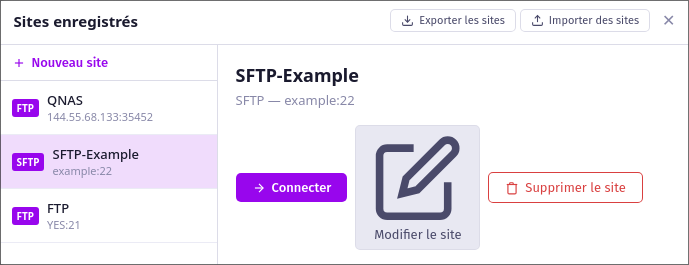
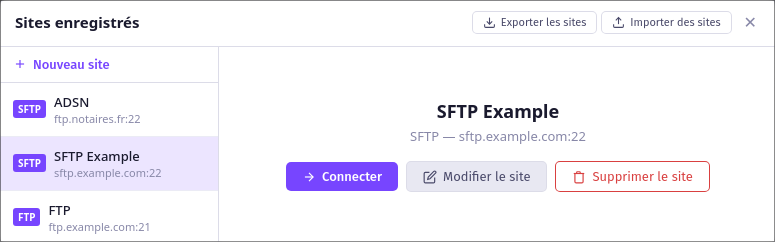
upd readme

diff --git a/README.md b/README.md
@@ -25,7 +25,7 @@
 - **Ask-password auth** - password is never saved; prompted at connect time
 - **SFTP auto-coupling** - selecting SFTP automatically sets authentication to Interactive (or SSH Key) and vice versa
 - **Path autocomplete** - dropdown suggestions while typing in the path bar
-- **Full settings panel** - passive mode, timeout, concurrent transfers, speed limit, hidden files, and more
+- **Full settings panel** - passive mode, timeout, concurrent transfers, speed limit, hidden files
 - **Encryption support** - None, TLS (implicit), FTPES (explicit)
 - **System trash on delete** - deleting a local file sends it to the OS trash (Linux: XDG Trash spec; Windows: Recycle Bin) rather than permanently deleting it
 - **Connection keepalive** - a NOOP/ping is sent every 60 seconds to prevent the server from dropping idle connections; unexpected disconnects trigger a notification and automatic UI update
@@ -38,7 +38,7 @@
 
 |SFTP|Sites|
 |----|-----------|
-| ![](./_images/sftp-fr-w.png) | ![](./_images/sites-fr-d.png) |
+| ![](./_images/sftp-en-d.png) | ![](./_images/sites-fr-d.png) |
 
 |Connected|Settings|
 |---------|--------|
@@ -243,7 +243,7 @@ Releases are available [here](https://github.com/Quirky1869/GlideFTP/releases)
 - **Auth demande de mot de passe** - le mot de passe n'est jamais enregistré ; saisi au moment de la connexion
 - **Couplage automatique SFTP** - sélectionner SFTP active automatiquement l'authentification Interactive (ou Clé SSH) et inversement
 - **Autocomplétion de chemin** - suggestions dans la barre de chemin lors de la saisie
-- **Panneau de paramètres complet** - mode passif, délai de connexion, transferts simultanés, limite de vitesse, fichiers cachés, et plus encore
+- **Panneau de paramètres complet** - mode passif, délai de connexion, transferts simultanés, limite de vitesse, fichiers cachés
 - **Support du chiffrement** - Aucun, TLS (implicite), FTPES (explicite)
 - **Corbeille système à la suppression** - la suppression d'un fichier local l'envoie dans la corbeille de l'OS (Linux : spec XDG Trash ; Windows : Corbeille) plutôt que de le supprimer définitivement
 - **Keepalive de connexion** - un NOOP/ping est envoyé toutes les 60 secondes pour éviter qu'un serveur coupe une connexion inactive ; une déconnexion inattendue affiche une notification et met à jour l'interface automatiquement
@@ -260,7 +260,7 @@ Releases are available [here](https://github.com/Quirky1869/GlideFTP/releases)
 
 |Connecté|Paramètres|
 |:---------:|:--------:|
-| ![](./_images/connected-fr-w.png) | ![](./_images/settings-en-d.png) |
+| ![](./_images/connected-fr-w.png) | ![](./_images/parametres-fr-d.png) |
 
 ### Télécharger les binaires pré-compilés
 
